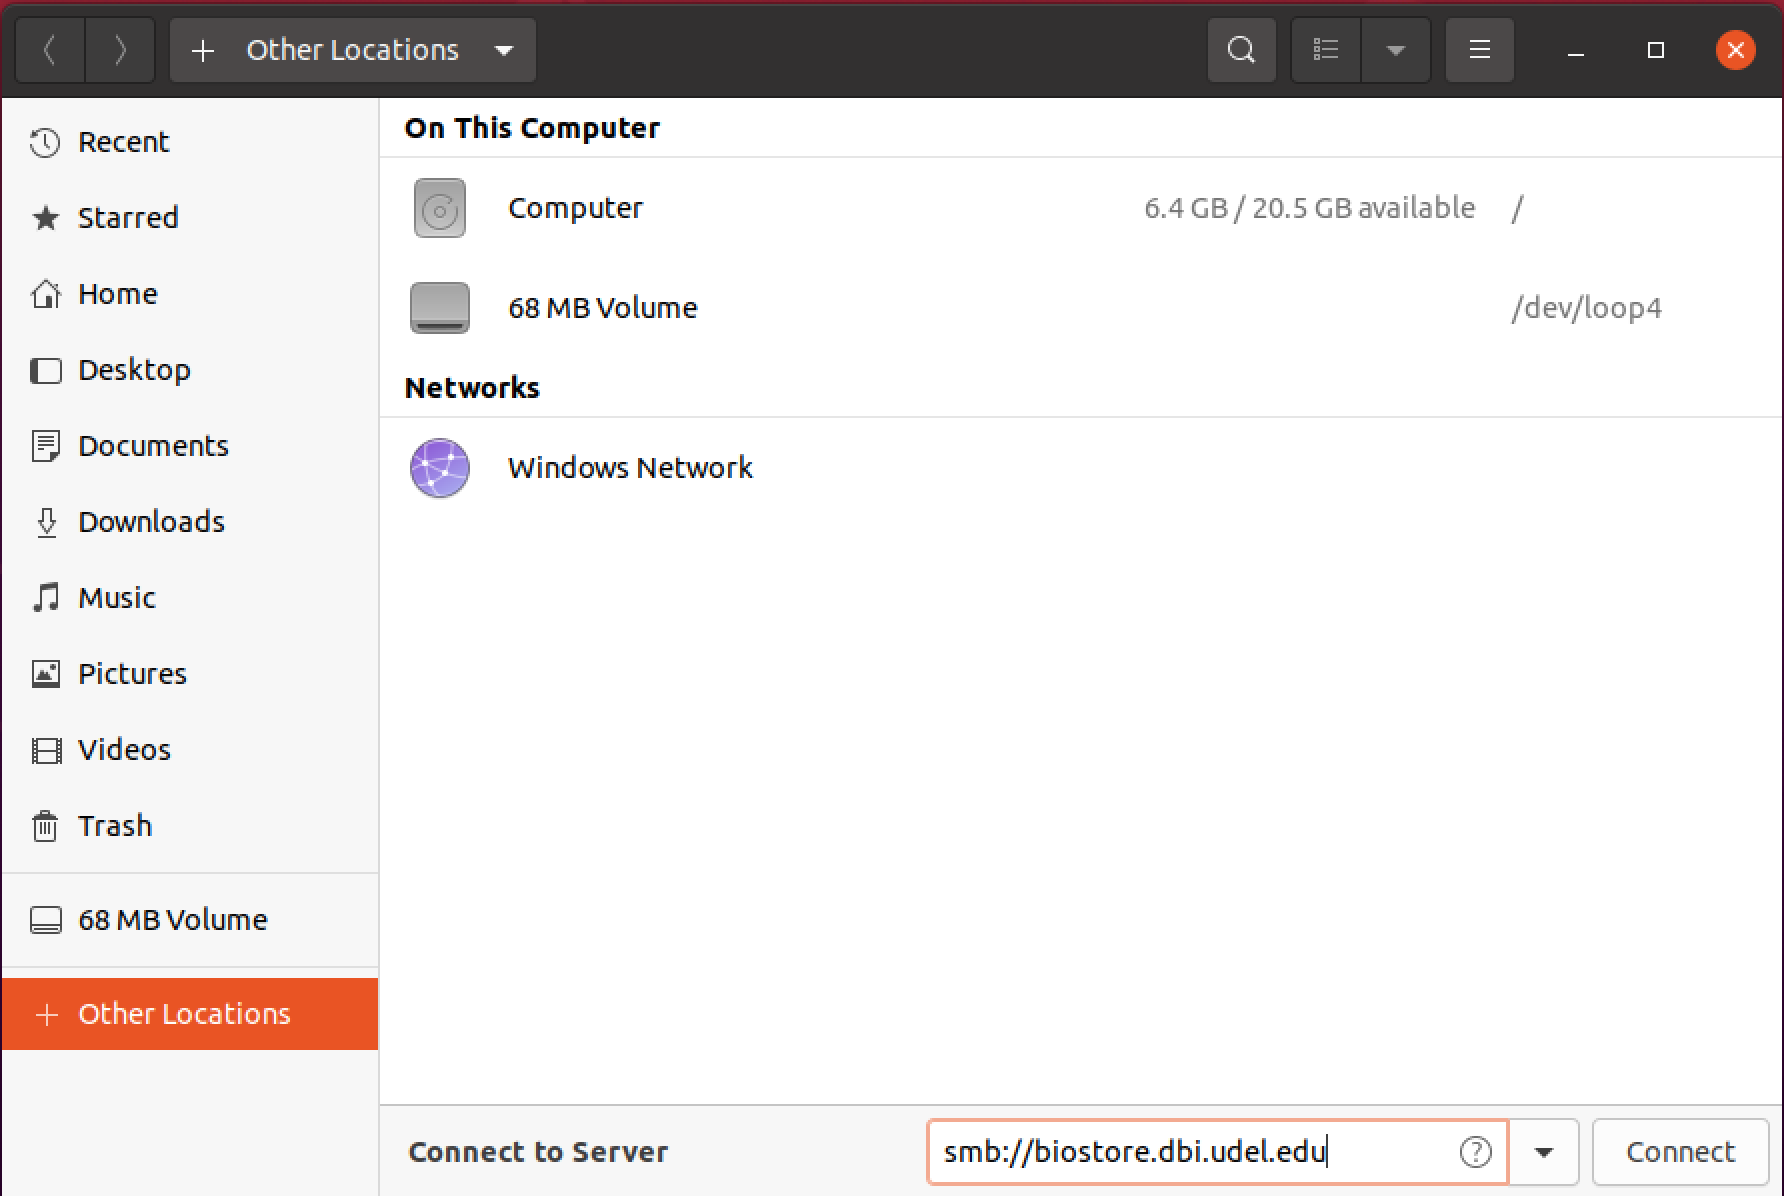
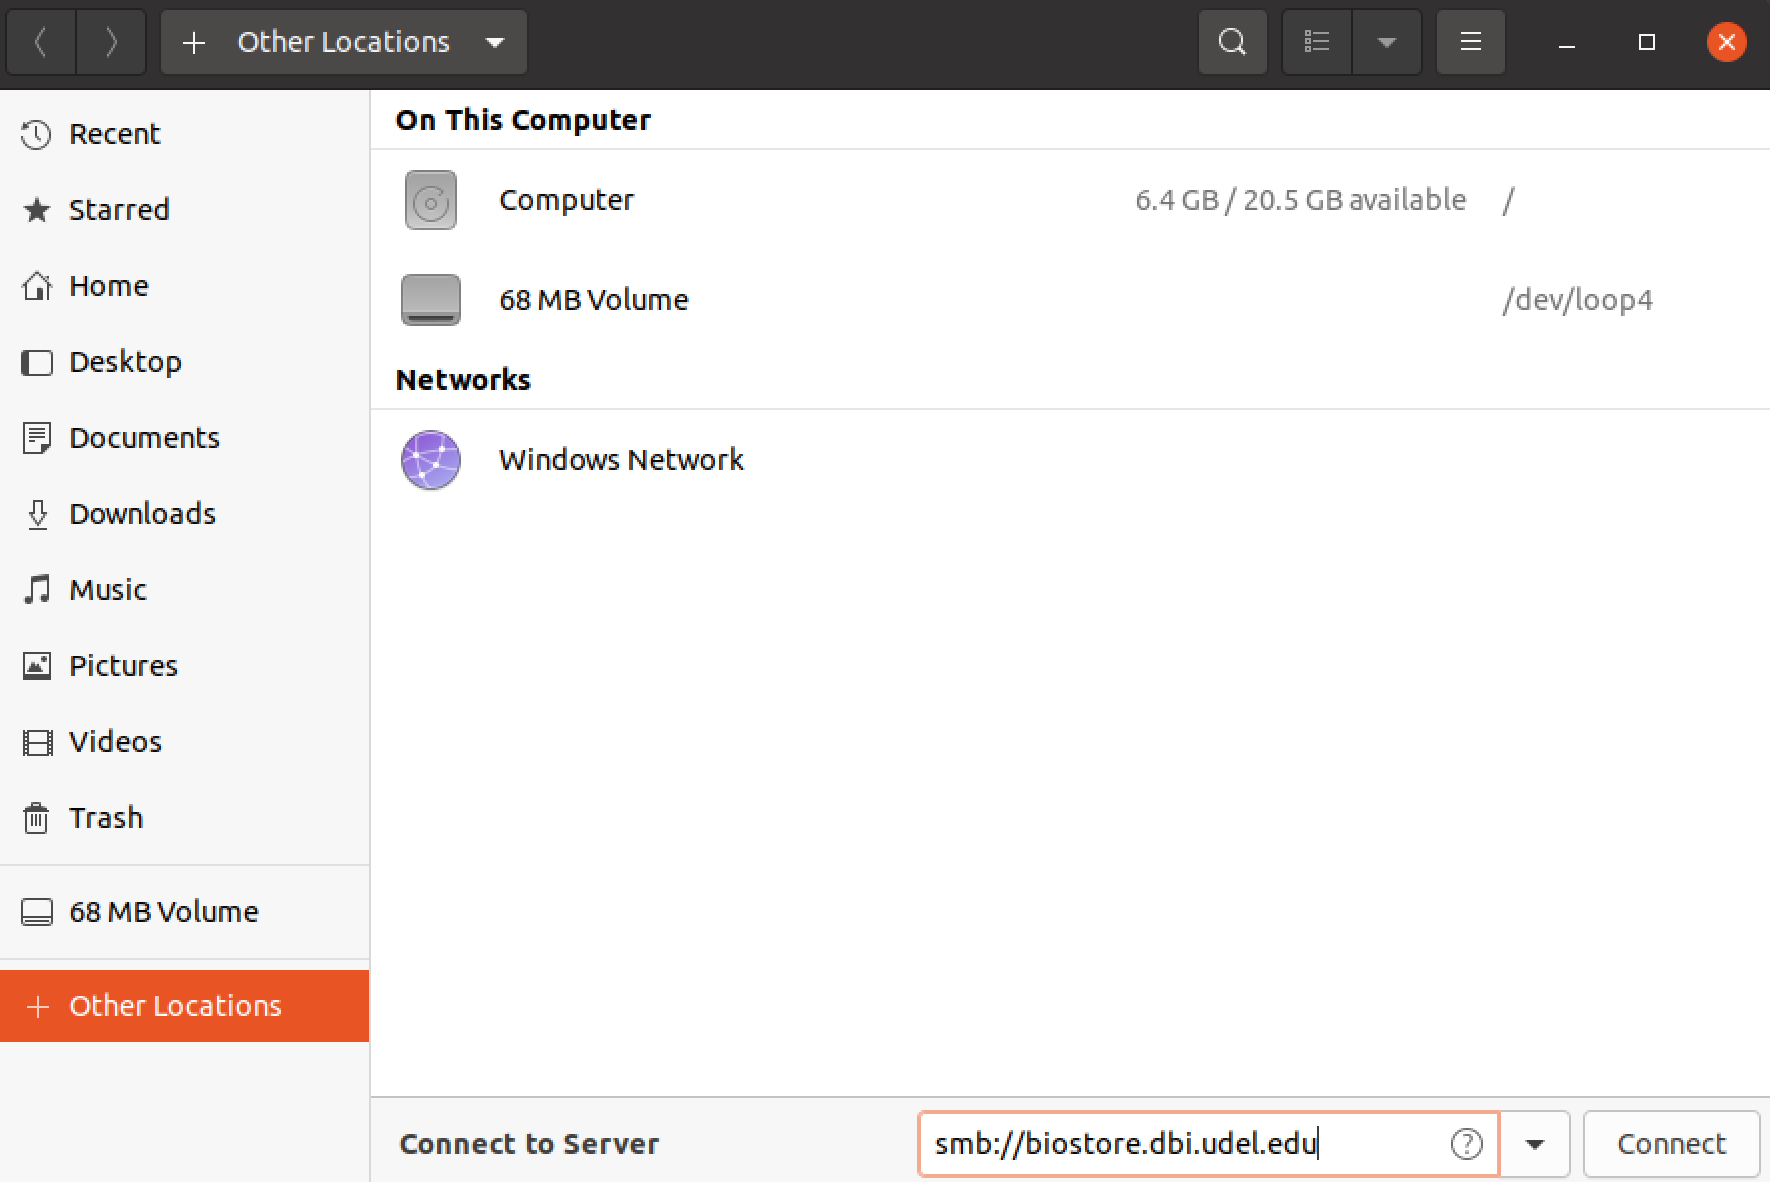
Edit yml and linux pics

diff --git a/_docs_src/src/linux_connect.md b/_docs_src/src/linux_connect.md
@@ -10,23 +10,23 @@ If you are a Linux user, you probably already know that there are several flavor
 
 3\. Once in 'Other Locations', enter `smb://biostore.dbi.udel.edu` in the box at the bottom labeled "Connect to Server."  Then, hit connect.
 
-<img src="https://udel-cbcb.github.io/biostore_docs/img/linux_connect_to_server.png" alt="Connect to server" width="600" />
+<img src="https://udel-cbcb.github.io/biostore_docs/img/linux_connect_to_server.png" alt="Connect to server" width="500" />
 
 4\. A dialogue box will appear and tell you, "Password required for biostore.dbi.udel.edu".  Your username will be the beginning of your udel email (the part before @udel.edu).  The domain will be `[username]@biostore.isilon`, where `[username]` is the same username you entered in the previous box.  Your password should have been set up in previous steps.  After entering the username, domain, and password, hit "Connect."
 
-<img src="https://udel-cbcb.github.io/biostore_docs/img/linux_username_password.png" alt="Linux username and password" width="400" />
+<img src="https://udel-cbcb.github.io/biostore_docs/img/linux_username_password.png" alt="Linux username and password" width="300" />
 
 5\. You should now be connected to BioStore!  The file manager window will now display some of the directories on BioStore.  You will only be able to access directories where you have permissions and others will appear empty.  Your view mode should look something like this:
 
-<img src="https://udel-cbcb.github.io/biostore_docs/img/linux_biostore_connection.png" alt="BioStore in Linux file manager" width="600" />
+<img src="https://udel-cbcb.github.io/biostore_docs/img/linux_biostore_connection.png" alt="BioStore in Linux file manager" width="500" />
 
 6\. Open the directory for your lab/group by double-clicking on the folder.  This will "mount" the directory and it will now appear on the sidebar just above "Other Locations"
 
-<img src="https://udel-cbcb.github.io/biostore_docs/img/linux_mounted_connection.png" alt="BioStore mounted in other locations" width="600" />
+<img src="https://udel-cbcb.github.io/biostore_docs/img/linux_mounted_connection.png" alt="BioStore mounted in other locations" width="500" />
 
 Alternatively, you can compress steps 4-6 into a single step by including the name of the volume in the server entry box, as below:
 
-<img src="https://udel-cbcb.github.io/biostore_docs/img/linux_connect_to_server_corefs.png" alt="Connect to server without selecting volume" width="600" />
+<img src="https://udel-cbcb.github.io/biostore_docs/img/linux_connect_to_server_corefs.png" alt="Connect to server without selecting volume" width="500" />
 
 If you choose to login this way, there will be an additional option in the username and password dialogue box.  Make sure the option "Registered User" is selected.
 
